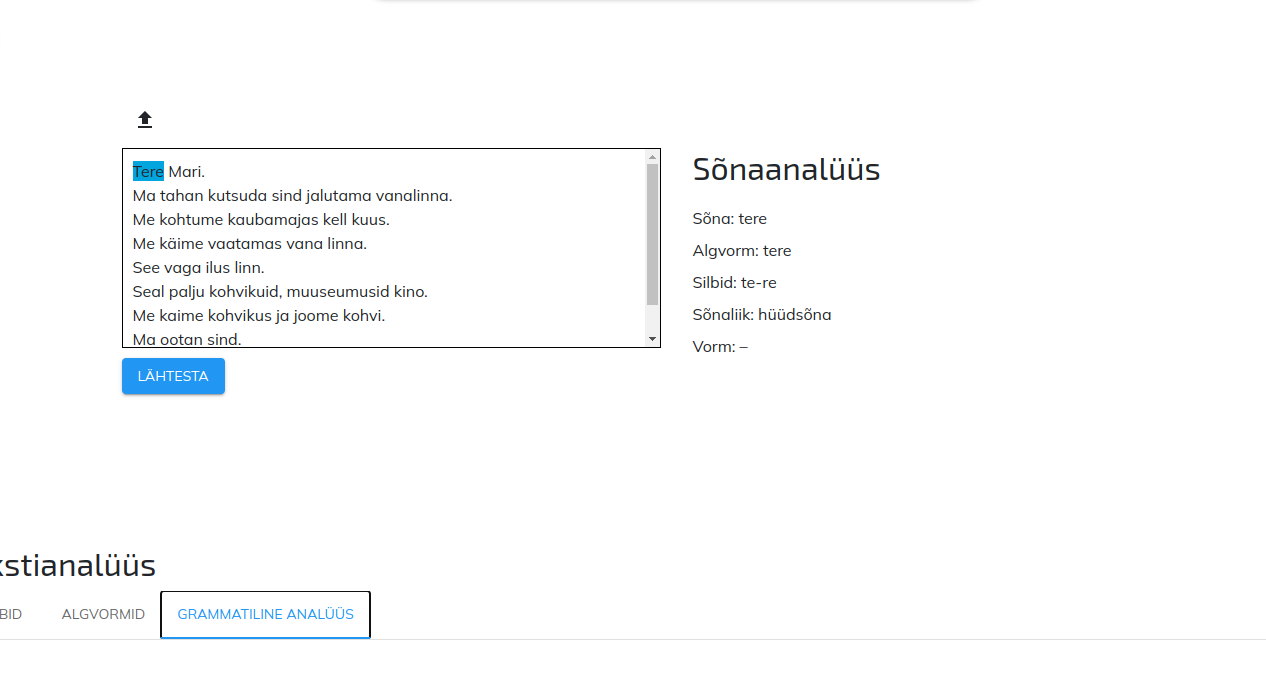
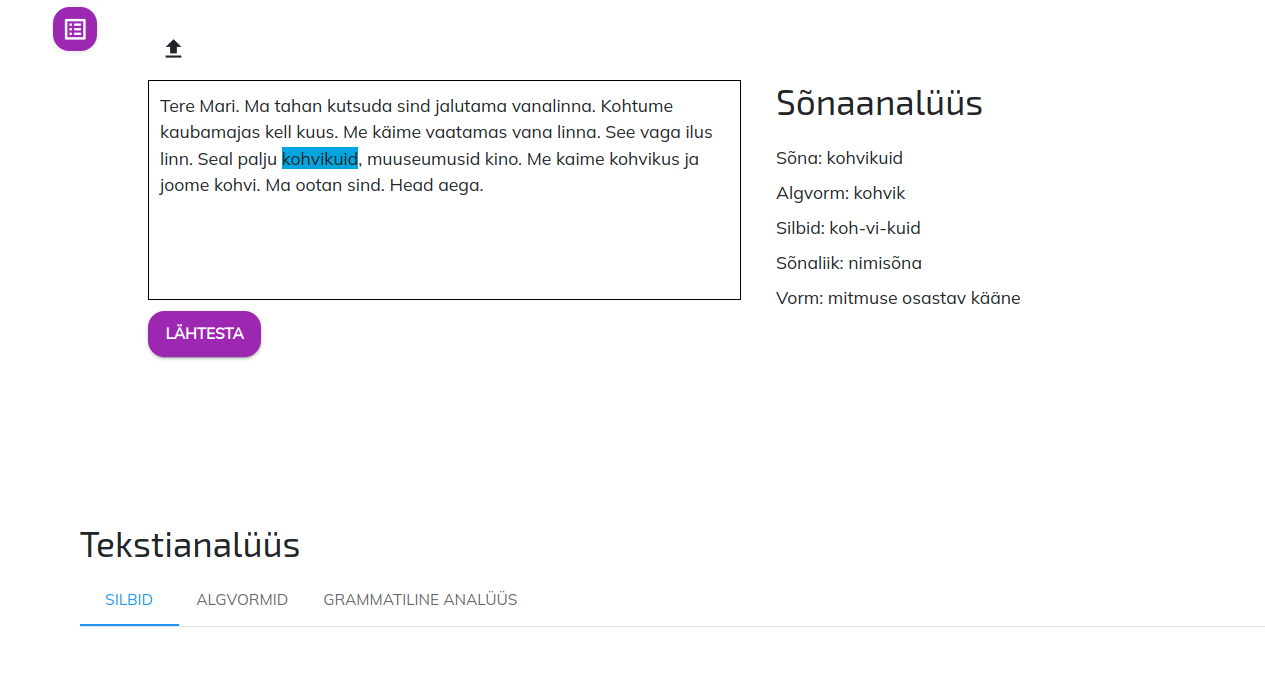
Changed homepage info element pictures. Changed Hero picture. Changed styles of buttons on some tools.

diff --git a/ui/src/elle/components/home/InfoElement.js b/ui/src/elle/components/home/InfoElement.js
@@ -1,33 +1,34 @@
-import React, {useState} from 'react';
-import '../styles/InfoElement.css'
-import {Box} from "@mui/material";
-import {useTranslation} from "react-i18next";
-import InfoElementTabCard from "./InfoElementTabCard";
-import {ElleOuterDivStyle} from "../../const/Constants";
-import i18n from "i18next";
-import wordlistImgEt from "../../resources/images/home/sonaloend_et.png";
-import wordlistImgEn from "../../resources/images/home/sonaloend_en.png";
-import wordcontextImgEt from "../../resources/images/home/sonakontekstis_et.png";
-import wordcontextImgEn from "../../resources/images/home/sonakontekstis_en.png";
-import collocateImgEt from "../../resources/images/home/naabersonad_et.png";
-import collocateImgEn from "../../resources/images/home/naabersonad_en.png";
-import analyserImgEt from "../../resources/images/home/sonaanalyys_et.png";
-import analyserImgEn from "../../resources/images/home/sonaanalyys_en.png";
-import textRaterImg from "../../resources/images/home/tekstihindaja.png"
-import textQueryImgEt from "../../resources/images/home/paring_et.png"
-import textQueryImgEn from "../../resources/images/home/paring_en.png"
-import wordPatternImg from "../../resources/images/home/mustrileidja.png"
+import React, { useState } from 'react';
+import '../styles/InfoElement.css';
+import { Box } from '@mui/material';
+import { useTranslation } from 'react-i18next';
+import InfoElementTabCard from './InfoElementTabCard';
+import { ElleOuterDivStyle } from '../../const/Constants';
+import i18n from 'i18next';
+import wordlistImgEt from '../../resources/images/home/sonaloend_et.png';
+import wordlistImgEn from '../../resources/images/home/sonaloend_en.png';
+import wordcontextImgEt from '../../resources/images/home/sonakontekstis_et.png';
+import wordcontextImgEn from '../../resources/images/home/sonakontekstis_en.png';
+import collocateImgEt from '../../resources/images/home/naabersonad_et.png';
+import collocateImgEn from '../../resources/images/home/naabersonad_en.png';
+import analyserImgEt from '../../resources/images/home/sonaanalyys_et.png';
+import analyserImgEn from '../../resources/images/home/sonaanalyys_en.png';
+import textRaterImg from '../../resources/images/home/tekstihindaja.png';
+import textQueryImgEt from '../../resources/images/home/paring_et.png';
+import textQueryImgEn from '../../resources/images/home/paring_en.png';
+import wordPatternImg from '../../resources/images/home/mustrileidja.png';
 
 export default function InfoElement() {
 
   const {t} = useTranslation();
-  const [openTab, setOpentab] = useState("corrector-tab-card");
+  const [openTab, setOpentab] = useState('corrector-tab-card');
   const [wordlistImg, setWordlistImg] = useState(i18n.language === 'ET' ? wordlistImgEt : wordlistImgEn);
   const [wordcontextImg, setWordcontextImg] = useState(i18n.language === 'ET' ? wordcontextImgEt : wordcontextImgEn);
   const [collocateImg, setCollocateImg] = useState(i18n.language === 'ET' ? collocateImgEt : collocateImgEn);
   const [analyserImg, setAnalyserImg] = useState(i18n.language === 'ET' ? analyserImgEt : analyserImgEn);
   const [textQueryImg, setTextQueryImg] = useState(i18n.language === 'ET' ? textQueryImgEt : textQueryImgEn);
   const [imageSelected, setImageSelected] = useState(1);
+  const [infoOpacity, setInfoOpacity] = useState(1);
   const images = [textRaterImg, textQueryImg, wordlistImg, wordcontextImg, collocateImg, wordPatternImg, analyserImg];
 
   i18n.on('languageChanged', () => {
@@ -36,13 +37,13 @@ export default function InfoElement() {
       setWordcontextImg(wordcontextImgEt);
       setCollocateImg(collocateImgEt);
       setAnalyserImg(analyserImgEt);
-      setTextQueryImg(textQueryImgEt)
+      setTextQueryImg(textQueryImgEt);
     } else {
       setWordlistImg(wordlistImgEn);
       setWordcontextImg(wordcontextImgEn);
       setCollocateImg(collocateImgEn);
       setAnalyserImg(analyserImgEn);
-      setTextQueryImg(textQueryImgEn)
+      setTextQueryImg(textQueryImgEn);
     }
   });
 
@@ -64,10 +65,11 @@ export default function InfoElement() {
         </Box>
         <Box className="elle-tools">
           <InfoElementTabCard
-            toolID={"corrector-tab-card"}
+            opacity={infoOpacity}
+            toolID={'corrector-tab-card'}
             toolTitle={t('common_corrector')}
             tabOpen={openTab}
-            toolInnerId={"corrector-info-popup"}
+            toolInnerId={'corrector-info-popup'}
             description={descriptionText[1]}
             setOpenTab={setOpentab}
             setImageSelected={setImageSelected}
@@ -76,21 +78,23 @@ export default function InfoElement() {
             linkTo={'/corrector'}
           />
           <InfoElementTabCard
-            toolID={"text-query-btn"}
+            opacity={infoOpacity}
+            toolID={'text-query-btn'}
             toolTitle={t('common_query')}
             tabOpen={openTab}
-            toolInnerId={"text-query-btn-box"}
+            toolInnerId={'text-query-btn-box'}
             description={descriptionText[2]}
             setOpenTab={setOpentab}
             setImageSelected={setImageSelected}
             imageNo={2}
-            tabReference={"queryOpen"}
+            tabReference={'queryOpen'}
             linkTo={'/tools'}
           />
           <InfoElementTabCard
-            toolID={"wordlist-tab-card"}
+            opacity={infoOpacity}
+            toolID={'wordlist-tab-card'}
             toolTitle={t('common_wordlist')}
-            toolInnerId={"wordlist-info-popup"}
+            toolInnerId={'wordlist-info-popup'}
             tabOpen={openTab}
             description={descriptionText[3]}
             setOpenTab={setOpentab}
@@ -100,10 +104,11 @@ export default function InfoElement() {
             linkTo={'/tools/wordlist'}
           />
           <InfoElementTabCard
-            toolID={"word-context-tab-card"}
+            opacity={infoOpacity}
+            toolID={'word-context-tab-card'}
             toolTitle={t('common_word_in_context')}
             tabOpen={openTab}
-            toolInnerId={"word-context-info-popup"}
+            toolInnerId={'word-context-info-popup'}
             description={descriptionText[4]}
             setOpenTab={setOpentab}
             setImageSelected={setImageSelected}
@@ -112,10 +117,11 @@ export default function InfoElement() {
             linkTo={'/tools/wordcontext'}
           />
           <InfoElementTabCard
-            toolID={"neighbour-word-tab-card"}
+            opacity={infoOpacity}
+            toolID={'neighbour-word-tab-card'}
             toolTitle={t('common_neighbouring_words')}
             tabOpen={openTab}
-            toolInnerId={"neighbour-word-info-popup"}
+            toolInnerId={'neighbour-word-info-popup'}
             description={descriptionText[5]}
             setOpenTab={setOpentab}
             setImageSelected={setImageSelected}
@@ -124,10 +130,11 @@ export default function InfoElement() {
             linkTo={'/tools/collocates'}
           />
           <InfoElementTabCard
-            toolID={"cluster-finder-tab-card"}
+            opacity={infoOpacity}
+            toolID={'cluster-finder-tab-card'}
             toolTitle={t('common_clusters')}
             tabOpen={openTab}
-            toolInnerId={"cluster-finder-info-popup"}
+            toolInnerId={'cluster-finder-info-popup'}
             description={descriptionText[6]}
             setOpenTab={setOpentab}
             setImageSelected={setImageSelected}
@@ -136,10 +143,11 @@ export default function InfoElement() {
             linkTo={'/tools/clusterfinder'}
           />
           <InfoElementTabCard
-            toolID={"word-analyser-tab-card"}
+            opacity={infoOpacity}
+            toolID={'word-analyser-tab-card'}
             toolTitle={t('common_word_analyser')}
             tabOpen={openTab}
-            toolInnerId={"word-analyser-info-popup"}
+            toolInnerId={'word-analyser-info-popup'}
             description={descriptionText[7]}
             setOpenTab={setOpentab}
             setImageSelected={setImageSelected}
@@ -149,7 +157,7 @@ export default function InfoElement() {
           />
         </Box>
         {/*TODO videod tööle panna, kui videod valmis*/}
-        <Box className="info-video">
+        <Box className="info-video" onMouseEnter={() => setInfoOpacity(0)} onMouseLeave={() => setInfoOpacity(1)}>
           <img className="info-image" src={images[imageSelected - 1]} alt="Tööriista pilt"/>
           {/*  <video
             className={"info-video-styling w-100"}

diff --git a/ui/src/elle/tools/wordanalyser/textinput/Input.js b/ui/src/elle/tools/wordanalyser/textinput/Input.js
@@ -1,10 +1,11 @@
-import {InputText} from './InputText';
-import {useContext, useEffect, useState} from 'react';
-import {Alert, Button, Grid} from '@mui/material';
+import { InputText } from './InputText';
+import { useContext, useEffect, useState } from 'react';
+import { Alert, Button, Grid } from '@mui/material';
 import LoadingButton from '@mui/lab/LoadingButton';
-import {useTranslation} from "react-i18next";
-import "../../../translations/i18n";
-import {AnalyseContext, TabContext} from "../Contexts";
+import { useTranslation } from 'react-i18next';
+import '../../../translations/i18n';
+import { AnalyseContext, TabContext } from '../Contexts';
+import { DefaultButtonStyle } from '../../../const/Constants';
 
 export const Input = ({onInsert, onMarkWords, onWordSelect, onWordInfo, onReset, textFromFile}) => {
   const [input, setInput] = useState('');
@@ -31,7 +32,7 @@ export const Input = ({onInsert, onMarkWords, onWordSelect, onWordInfo, onReset,
     } else {
       setShowAlert(true);
     }
-  }
+  };
 
   useEffect(() => {
     if (JSON.stringify(selectedWords) !== JSON.stringify(onMarkWords)) {
@@ -52,7 +53,7 @@ export const Input = ({onInsert, onMarkWords, onWordSelect, onWordInfo, onReset,
     setShowResetBtn(false);
     setInput('');
     onReset();
-  }
+  };
 
   useEffect(() => {
     setInput(textFromFile);
@@ -66,17 +67,17 @@ export const Input = ({onInsert, onMarkWords, onWordSelect, onWordInfo, onReset,
         <form>
           <label className="textInputContainer">
             <textarea spellCheck="false"
-                      className='textInput'
-                      name='textInput'
+                      className="textInput"
+                      name="textInput"
                       value={input}
                       onChange={(e) => setInput(e.target.value)}/>
           </label>
-          <Button variant="contained"
-                  onClick={onSubmit}>{t("analyse_button")}</Button>
+          <Button sx={DefaultButtonStyle} variant="contained"
+                  onClick={onSubmit}>{t('analyse_button')}</Button>
           {showAlert &&
             <span>
               <br/><br/>
-              <Alert severity="warning">{t("error_no_text")}</Alert>
+              <Alert severity="warning">{t('error_no_text')}</Alert>
             </span>
           }
           {textTooLong &&
@@ -84,7 +85,7 @@ export const Input = ({onInsert, onMarkWords, onWordSelect, onWordInfo, onReset,
                   xs={12}
                   md={12}>
               <br/>
-              <Alert severity="warning">{t("error_text_too_long")}</Alert>
+              <Alert severity="warning">{t('error_text_too_long')}</Alert>
             </Grid>
           }
         </form>
@@ -93,11 +94,11 @@ export const Input = ({onInsert, onMarkWords, onWordSelect, onWordInfo, onReset,
                    onWordSelect={onWordSelect}
                    onWordInfo={onWordInfo}/>
       }
-      {showLoading && <LoadingButton loading
-                                     variant="outlined">{t("analyse_button")}</LoadingButton>}
-      {showResetBtn && <Button variant="contained"
+      {showLoading && <LoadingButton sx={DefaultButtonStyle} loading
+                                     variant="outlined">{t('analyse_button')}</LoadingButton>}
+      {showResetBtn && <Button sx={DefaultButtonStyle} variant="contained"
                                className="mainBtn"
-                               onClick={resetAnalyser}>{t("reset_button")}</Button>}
+                               onClick={resetAnalyser}>{t('reset_button')}</Button>}
     </div>
-  )
-}
+  );
+};

diff --git a/ui/src/elle/components/home/InfoElementTabCard.js b/ui/src/elle/components/home/InfoElementTabCard.js
@@ -1,9 +1,9 @@
 import React from 'react';
-import {Box, Button} from "@mui/material";
-import '../styles/InfoElementTabCard.css'
-import {DefaultButtonStyleSmall} from "../../const/Constants";
-import {useTranslation} from "react-i18next";
-import {useNavigate} from "react-router-dom";
+import { Box, Button } from '@mui/material';
+import '../styles/InfoElementTabCard.css';
+import { DefaultButtonStyleSmall } from '../../const/Constants';
+import { useTranslation } from 'react-i18next';
+import { useNavigate } from 'react-router-dom';
 
 export default function InfoElementTabCard(props) {
   const navigate = useNavigate();
@@ -12,23 +12,23 @@ export default function InfoElementTabCard(props) {
   const changeTab = () => {
     props.setOpenTab(props.toolID);
     props.setImageSelected(props.imageNo);
-  }
+  };
 
   return (
     <Box id={props.toolID} onMouseEnter={(e) => changeTab()}
-         className={props.tabOpen === props.toolID ? "btn-visible" : "btn-invisible"}>
+         className={props.tabOpen === props.toolID ? 'btn-visible' : 'btn-invisible'}>
       <p className="tool-button-text">{props.toolTitle}</p>
-      <Box id={props.toolInnerId}
-           className={props.tabOpen === props.toolID ? "info-box-slide-visible" : "info-box-slide-invisible"}>
+      <Box style={{opacity: props.opacity}} id={props.toolInnerId}
+           className={props.tabOpen === props.toolID ? 'info-box-slide-visible' : 'info-box-slide-invisible'}>
         <Box className="btn-box-inner">
           <Box className="btn-box-inner-inner">
             {props.description}
             <Button
-              variant={"contained"}
+              variant={'contained'}
               sx={DefaultButtonStyleSmall}
-              size={"small"}
+              size={'small'}
               onClick={() => {
-                navigate(props.linkTo, props.tabReference ? {state: {pageNo: props.tabReference}} : {})
+                navigate(props.linkTo, props.tabReference ? {state: {pageNo: props.tabReference}} : {});
               }}
             >
               {t('find_out_more')}

diff --git a/ui/src/elle/tools/wordcontext/WordContext.js b/ui/src/elle/tools/wordcontext/WordContext.js
@@ -1,7 +1,7 @@
 import { useNavigate, useSearchParams } from 'react-router-dom';
 import React, { useEffect, useMemo, useState } from 'react';
 import { queryStore } from '../../store/QueryStore';
-import { AccordionStyle } from '../../const/Constants';
+import { AccordionStyle, DefaultButtonStyle } from '../../const/Constants';
 import Accordion from '@mui/material/Accordion';
 import ExpandMoreIcon from '@mui/icons-material/ExpandMore';
 import AccordionSummary from '@mui/material/AccordionSummary';
@@ -256,7 +256,7 @@ export default function WordContext() {
                                       label={t('common_by_base_form')}/>
                   </RadioGroup>
                   {typeError && <FormHelperText>{t('error_mandatory_field')}</FormHelperText>}
-                  <Button sx={{width: 130}}
+                  <Button sx={DefaultButtonStyle}
                           style={{marginTop: '10vh !important'}}
                           className="wordcontext-analyse-button"
                           type="submit"
@@ -348,7 +348,7 @@ export default function WordContext() {
         </Alert>
       </>}
       {showTable && <>
-        <TableDownloadButton data={data}
+        <TableDownloadButton sx={DefaultButtonStyle} data={data}
                              tableType={'WordContext'}
                              headers={tableToDownload}
                              accessors={accessors}

diff --git a/ui/src/elle/tools/collocates/Collocates.js b/ui/src/elle/tools/collocates/Collocates.js
@@ -1,6 +1,6 @@
 import './Collocates.css';
 import React, { useEffect, useMemo, useState } from 'react';
-import { AccordionStyle } from '../../const/Constants';
+import { AccordionStyle, DefaultButtonStyle } from '../../const/Constants';
 import Accordion from '@mui/material/Accordion';
 import ExpandMoreIcon from '@mui/icons-material/ExpandMore';
 import {
@@ -261,7 +261,7 @@ export default function Collocates() {
                                       label={t('common_by_base_form')}/>
                   </RadioGroup>
                   {typeError && <FormHelperText>{t('error_mandatory_field')}</FormHelperText>}
-                  <Button sx={{width: 130}}
+                  <Button sx={DefaultButtonStyle}
                           style={{marginTop: '10vh !important'}}
                           className="collocates-analyse-button"
                           type="submit"
@@ -368,7 +368,8 @@ export default function Collocates() {
         </Alert>
       </>}
       {showTable && <>
-        <TableDownloadButton data={data}
+        <TableDownloadButton sx={DefaultButtonStyle}
+                             data={data}
                              tableType={'Collocates'}
                              headers={tableToDownload}
                              accessors={accessors}

diff --git a/ui/src/elle/tools/wordlist/Wordlist.js b/ui/src/elle/tools/wordlist/Wordlist.js
@@ -18,7 +18,7 @@ import {
   Tooltip,
   Typography
 } from '@mui/material';
-import { AccordionStyle } from '../../const/Constants';
+import { AccordionStyle, DefaultButtonStyle } from '../../const/Constants';
 import ExpandMoreIcon from '@mui/icons-material/ExpandMore';
 import { QuestionMark } from '@mui/icons-material';
 import WordlistMenu from './menu/WordlistMenu';
@@ -229,7 +229,7 @@ export default function Wordlist() {
                                       label={t('wordlist_search_base_forms')}/>
                   </RadioGroup>
                   {typeError && <FormHelperText>{t('error_mandatory_field')}</FormHelperText>}
-                  <Button sx={{width: 130}}
+                  <Button sx={DefaultButtonStyle}
                           className="wordlist-analyse-button"
                           type="submit"
                           variant="contained">

diff --git a/ui/src/elle/const/Constants.js b/ui/src/elle/const/Constants.js
@@ -32,6 +32,7 @@ export const AccordionStyle = {
 export const DefaultButtonStyle = {
   backgroundColor: '#9C27B0',
   fontWeight: 'bold',
+  lineHeight: '30px',
   borderRadius: '15px',
   '&:hover': {
     backgroundColor: '#852197'

diff --git a/ui/src/elle/components/styles/InfoElementTabCard.css b/ui/src/elle/components/styles/InfoElementTabCard.css
@@ -76,7 +76,7 @@
 .info-box-slide-invisible {
   left: 90%;
   width: 0;
-  opacity: 0;
+  opacity: 0 !important;
   transition: 0.2s;
 }
 
